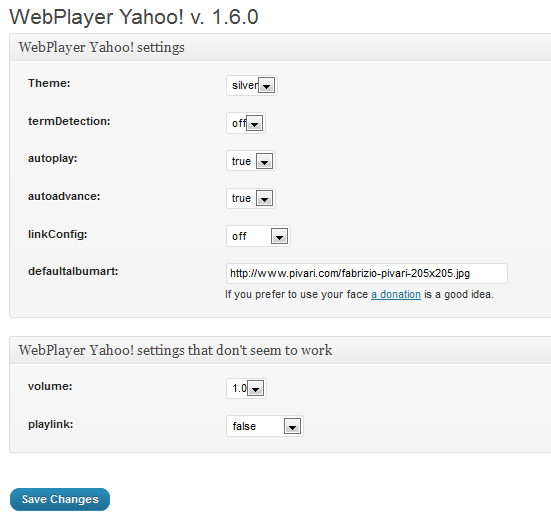
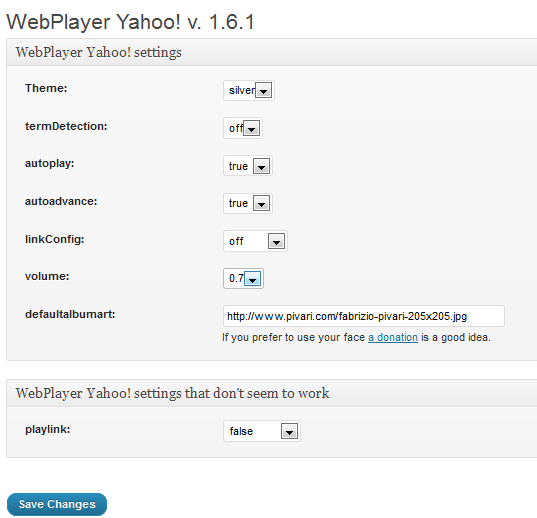
git-svn-id: https://plugins.svn.wordpress.org/webplayer-yahoo/trunk@493075 b8457f37-d9ea-0310-8a92-e5e31aec5664

diff --git a/options.php b/options.php
@@ -54,20 +54,6 @@
 </tr>
 
 <tr valign="top">
-<th scope="row"><b>defaultalbumart:</b></th>
-<td><input type="text" name="defaultalbumart" size="50" value="<?php echo get_option('defaultalbumart'); ?>" /><br>
-If you prefer to use your face <a href="http://www.pivari.com/wordpress-plugins/webplayer-yahoo-wp-plugin/">a donation</a> is a good idea.</td>
-</tr>
-
-</table>
-</div>
-</div>
-
-<div class="postbox" id="2"> 
-<h3 class='hndle'><span>WebPlayer Yahoo! settings that don't seem to work</span></h3>
-<div class="inside">
-<table class="form-table" style="margin-top: 0; clear:none;">
-<tr valign="top">
 <th scope="row"><b>volume:</b></th>
 <td>
   <select name="volume">
@@ -85,6 +71,22 @@ If you prefer to use your face <a href="http://www.pivari.com/wordpress-plugins/
 </select>
 </td>
 </tr>
+
+<tr valign="top">
+<th scope="row"><b>defaultalbumart:</b></th>
+<td><input type="text" name="defaultalbumart" size="50" value="<?php echo get_option('defaultalbumart'); ?>" /><br>
+If you prefer to use your face <a href="http://www.pivari.com/wordpress-plugins/webplayer-yahoo-wp-plugin/">a donation</a> is a good idea.</td>
+</tr>
+
+</table>
+</div>
+</div>
+
+<div class="postbox" id="2"> 
+<h3 class='hndle'><span>WebPlayer Yahoo! settings that don't seem to work</span></h3>
+<div class="inside">
+<table class="form-table" style="margin-top: 0; clear:none;">
+
 <tr valign="top">
 <th scope="row"><b>playlink:</b></th>
 <td>

diff --git a/webplayer-yahoo.php b/webplayer-yahoo.php
@@ -4,7 +4,7 @@
 Plugin Name: WebPlayer Yahoo!
 Plugin URI: http://www.pivari.com/wordpress-plugins/webplayer-yahoo-wp-plugin/
 Description: A simple Plugin to add WebPlayer Yahoo! code on your pages.
-Version: 1.6.0
+Version: 1.6.1
 Author: Fabrizio Pivari
 Author URI: http://www.pivari.com
  */
@@ -25,7 +25,7 @@ Author URI: http://www.pivari.com
     Foundation, Inc., 59 Temple Place, Suite 330, Boston, MA  02111-1307  USA
 */
 
-$version="1.6.0";
+$version="1.6.1";
 
 if (!defined('WP_CONTENT_URL'))
       define('WP_CONTENT_URL', get_option('siteurl').'/wp-content');
@@ -86,8 +86,8 @@ function webplayer() {
   $defaultalbumart = get_option('defaultalbumart');
   $linkConfig = get_option('linkConfig');
   $volume = get_option('volume');
-  if ( $volume == '10' ) $volume='1.0';
-  else $volume = '0.'.$volume;
+  if ( $volume == '10' ) $volume='1.00';
+  else $volume = '0.'.$volume.'0';
   $playlink = get_option('playlink');
   if ( $defaultalbumart == '' )
 	  $defaultalbumart = 'http://www.pivari.com/fabrizio-pivari-205x205.jpg';
